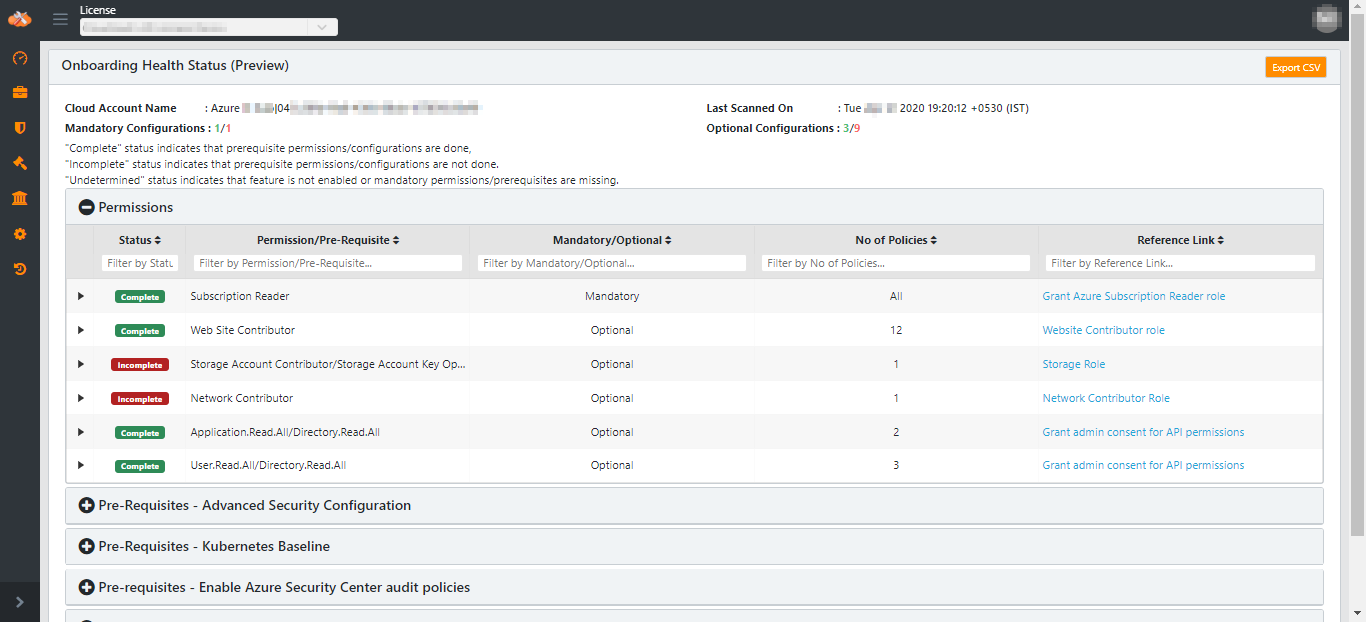
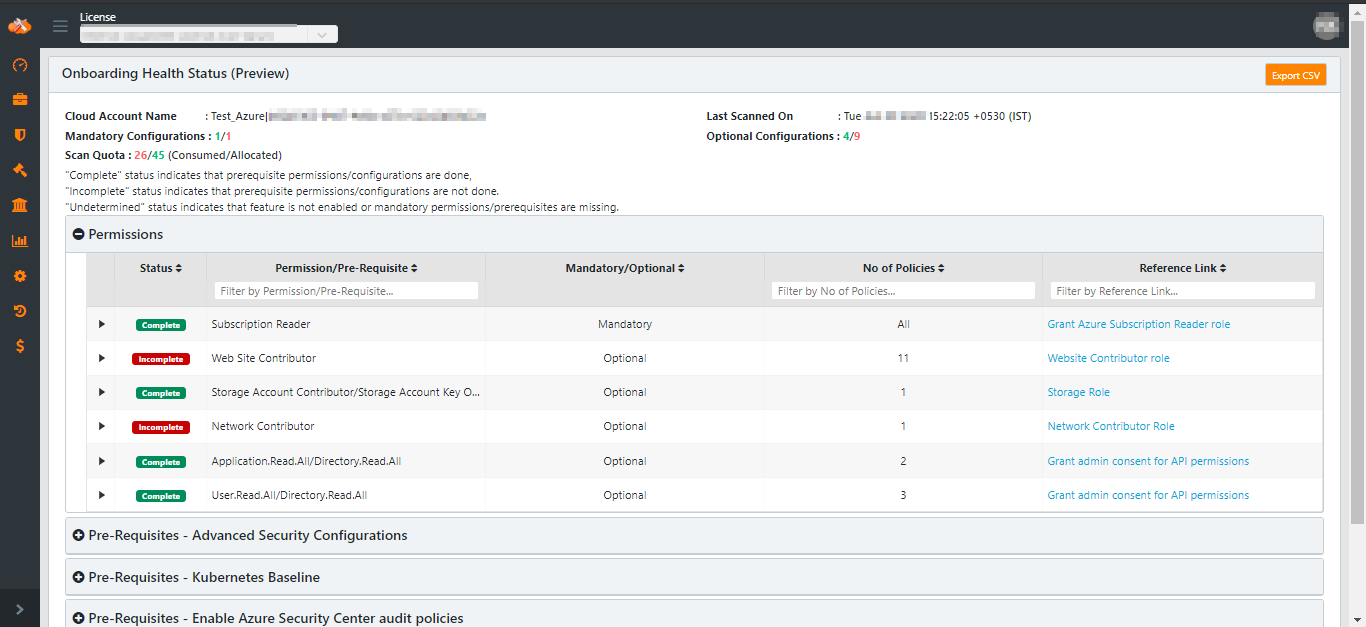
Tasks 17548, 17704 : Updated health status page for scan quota and added content for billing dashboard aggregation at license level

Changed region(s): [[0.0, 0.0, 1.0, 1.0], [0.7687, 0.672, 0.9224, 0.7026], [0.0, 0.4887, 0.0307, 0.5193]]

diff --git a/docs/administratorGuide/billingDashboard.md b/docs/administratorGuide/billingDashboard.md
@@ -8,10 +8,35 @@ and user count.
 
 Billing dashboard page provides billing visibility to the consumed resource capacity. Customers/Partners can now use the resource consumption data to calculate the monthly/yearly invoices. 
 
-Total resources in Cloud Account
+
+Aggregated resource counts at License level
+-------------------------------------------
+
+Please follow the below steps to determine the average total number of resources aggreagted at a license level for all Cloud Accounts within selected License.
+
+Login to Cloudneeti portal as License Admin.
+
+1. Navigate to **Billing** (1)
+
+2. Select **License** (2) and **All Accounts** (3)
+
+    ![Azure Resources](.././images/billingDashboard/billingDashboard_All_1.png#thumbnail)
+
+3. Select **Billing Cycle** (1), loads the current billing cycle by default.
+
+    ![Azure Resources](.././images/billingDashboard/billingDashboard_All_1a.png#thumbnail)
+
+4. Aggregated resource view is shown for all cloud accounts within a selected License.
+ - Billing Details (1)
+ - Aggreagted resource summary (2)
+
+    ![Azure Resources](.././images/billingDashboard/billingDashboard_All_2.png#thumbnail)
+
+
+Resource count in Cloud Account
 --------------------------------
 
-Please follow the below steps to determine the total number of resources within
+Please follow the below steps to determine the average total number of resources within
 a Cloud Account.
 
 Login to Cloudneeti portal as License Admin.

diff --git a/docs/onboardingGuide/office365AccountHealthStatus.md b/docs/onboardingGuide/office365AccountHealthStatus.md
@@ -1,7 +1,7 @@
 Office 365 onboarding Health Status (Preview)
 ==================================
 
-Onboarding Health Status page provides insights into the state of your cloud account onboarded in Cloudneeti like missing pre-requisite permissions, configurations on every cloud account scan.
+Onboarding Health Status page provides insights into the state of your cloud account onboarded in Cloudneeti like missing pre-requisite permissions, configurations, scan quota consumed on every cloud account scan. 
 
 License Admins and Account Admins will have the rights to view Cloud Account's onboarding Health Status
 

diff --git a/docs/onboardingGuide/azureAccountHealthStatus.md b/docs/onboardingGuide/azureAccountHealthStatus.md
@@ -1,7 +1,7 @@
 Azure onboarding Health Status (Preview)
 ==================================
 
-Onboarding Health Status page provides insights into the state of your cloud account onboarded in Cloudneeti like missing pre-requisite permissions, configurations on every cloud account scan.
+Onboarding Health Status page provides insights into the state of your cloud account onboarded in Cloudneeti like missing pre-requisite permissions, configurations, scan quota consumed on every cloud account scan.
 
 License Admins and Account Admins will have the rights to view Cloud Account's onboarding Health Status
 

diff --git a/docs/onboardingGuide/awsAccountHealthStatus.md b/docs/onboardingGuide/awsAccountHealthStatus.md
@@ -1,7 +1,7 @@
 AWS onboarding Health Status (Preview)
 ==================================
 
-Onboarding Health Status page provides insights into the state of your cloud account onboarded in Cloudneeti like missing pre-requisite permissions, configurations on every cloud account scan.
+Onboarding Health Status page provides insights into the state of your cloud account onboarded in Cloudneeti like missing pre-requisite permissions, configurations, scan quota consumed on every cloud account scan.
 
 License Admins and Account Admins will have the rights to view Cloud Account's onboarding Health Status
 
